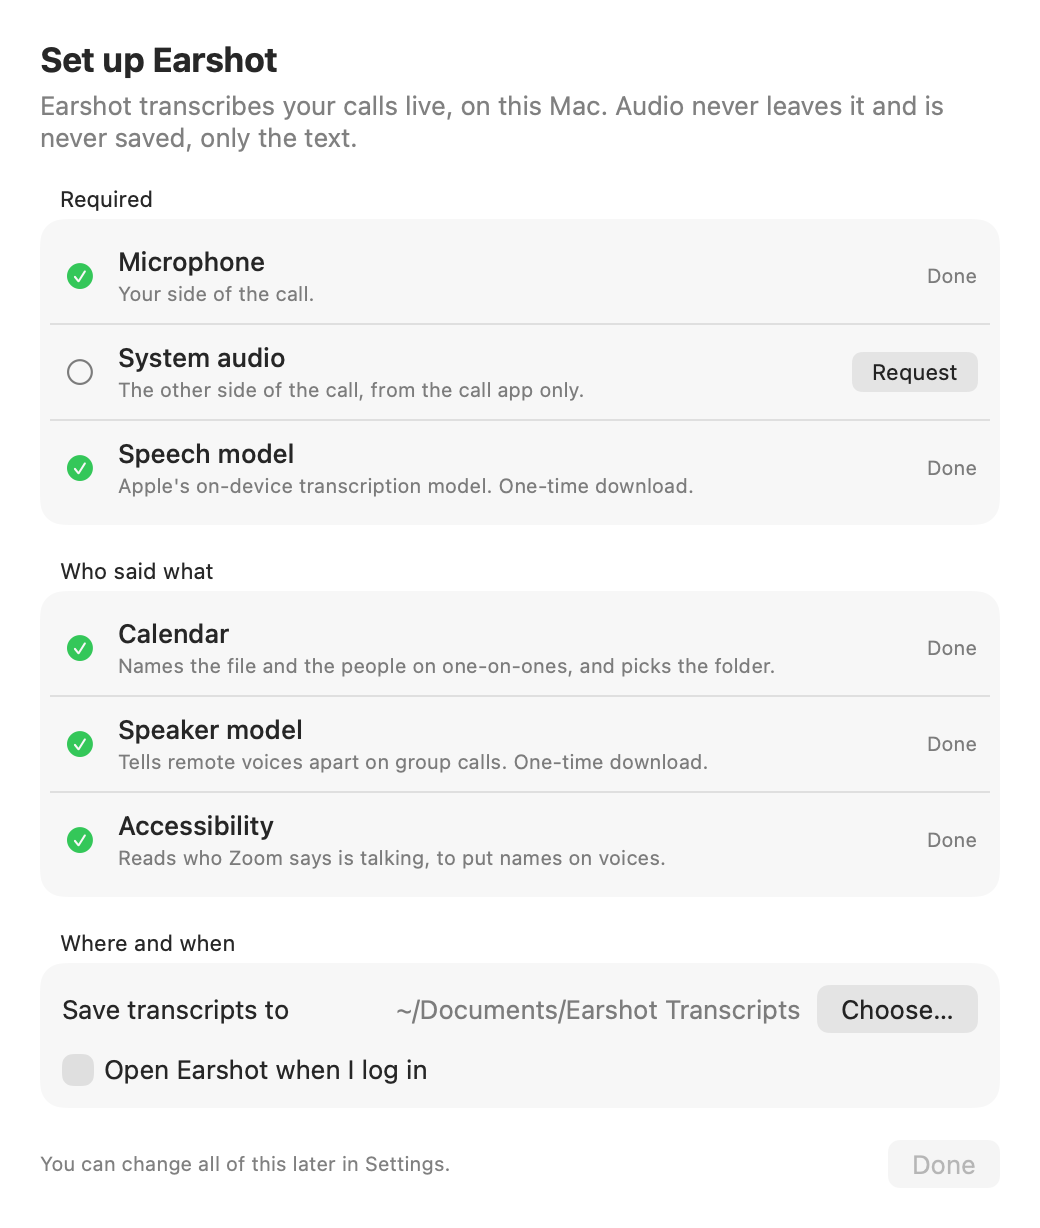
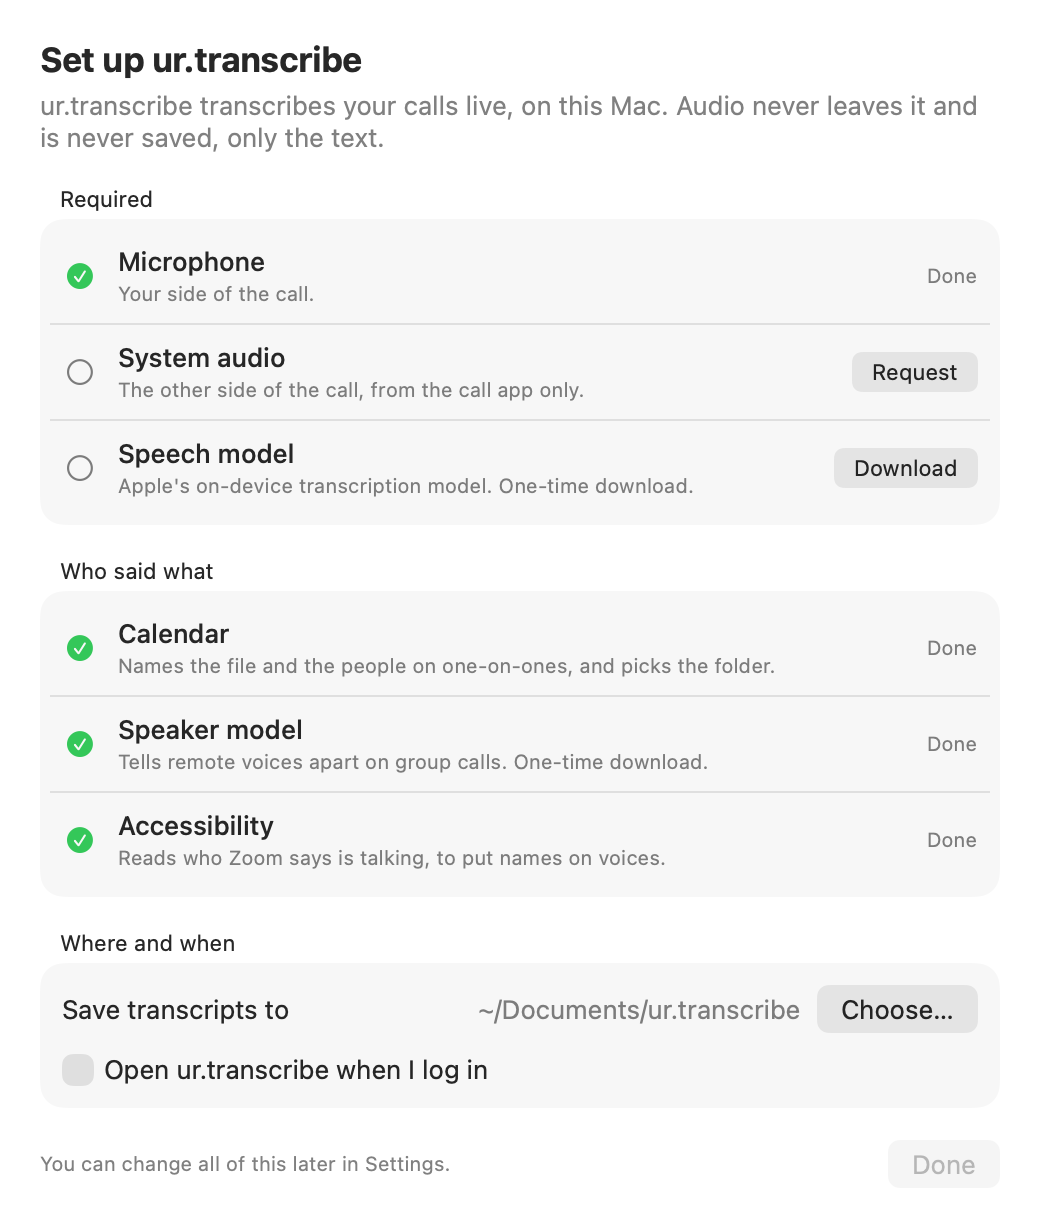
Rename to ur.transcribe
App is now ur.transcribe (bundle io.github.arturyb1.urtranscribe), with the
Swift package, module, and executable named URTranscribe.

diff --git a/Sources/URTranscribe/Audio/SystemAudioTap.swift b/Sources/URTranscribe/Audio/SystemAudioTap.swift
@@ -25,10 +25,10 @@ final class SystemAudioTap: @unchecked Sendable {
     private var tapID = AudioObjectID(kAudioObjectUnknown)
     private var aggregateID = AudioObjectID(kAudioObjectUnknown)
     private var procID: AudioDeviceIOProcID?
-    private let queue = DispatchQueue(label: "earshot.system-audio", qos: .userInitiated)
-    private let log = Logger(subsystem: "Earshot", category: "SystemAudioTap")
+    private let queue = DispatchQueue(label: "urtranscribe.system-audio", qos: .userInitiated)
+    private let log = Logger(subsystem: "ur.transcribe", category: "SystemAudioTap")
 
-    /// - Parameter bundlePrefixes: apps to capture. Empty captures everything except Earshot.
+    /// - Parameter bundlePrefixes: apps to capture. Empty captures everything except ur.transcribe.
     func start(bundlePrefixes: [String]) throws {
         let description: CATapDescription
         let processes = AudioProcess.all()
@@ -36,7 +36,7 @@ final class SystemAudioTap: @unchecked Sendable {
             bundlePrefixes.contains { process.bundleID.hasPrefix($0) }
         }
         if matches.isEmpty {
-            // No app given, or it has no audio process yet: take everything but Earshot.
+            // No app given, or it has no audio process yet: take everything but ur.transcribe.
             let own = AudioProcess.current().map { [$0.objectID] } ?? []
             description = CATapDescription(monoGlobalTapButExcludeProcesses: own)
         } else {
@@ -46,7 +46,7 @@ final class SystemAudioTap: @unchecked Sendable {
             description.isProcessRestoreEnabled = true
         }
         description.uuid = UUID()
-        description.name = "Earshot"
+        description.name = "ur.transcribe"
         description.isPrivate = true
         description.muteBehavior = .unmuted
 
@@ -56,7 +56,7 @@ final class SystemAudioTap: @unchecked Sendable {
         guard let outputUID = CoreAudio.defaultOutputDeviceUID() else { throw TapError.noOutputDevice }
         let tapUID = CoreAudio.string(tapID, kAudioTapPropertyUID) ?? description.uuid.uuidString
         let aggregate: [String: Any] = [
-            kAudioAggregateDeviceNameKey: "Earshot Tap",
+            kAudioAggregateDeviceNameKey: "ur.transcribe tap",
             kAudioAggregateDeviceUIDKey: UUID().uuidString,
             kAudioAggregateDeviceMainSubDeviceKey: outputUID,
             kAudioAggregateDeviceIsPrivateKey: true,

diff --git a/Sources/URTranscribe/UI/SetupView.swift b/Sources/URTranscribe/UI/SetupView.swift
@@ -8,8 +8,8 @@ struct SetupView: View {
     var body: some View {
         VStack(alignment: .leading, spacing: 16) {
             VStack(alignment: .leading, spacing: 4) {
-                Text("Set up Earshot").font(.title2.bold())
-                Text("Earshot transcribes your calls live, on this Mac. Audio never leaves it and is never saved, only the text.")
+                Text("Set up ur.transcribe").font(.title2.bold())
+                Text("ur.transcribe transcribes your calls live, on this Mac. Audio never leaves it and is never saved, only the text.")
                     .foregroundStyle(.secondary)
                     .fixedSize(horizontal: false, vertical: true)
             }
@@ -53,7 +53,7 @@ struct SetupView: View {
             GroupBox("Where and when") {
                 VStack(alignment: .leading, spacing: 10) {
                     FolderPicker(title: "Save transcripts to", path: $settings.destinationPath)
-                    Toggle("Open Earshot when I log in", isOn: Binding(
+                    Toggle("Open ur.transcribe when I log in", isOn: Binding(
                         get: { permissions.openAtLogin }, set: { permissions.setOpenAtLogin($0) }))
                 }
                 .padding(6)

diff --git a/Sources/URTranscribe/Transcription/StreamTranscriber.swift b/Sources/URTranscribe/Transcription/StreamTranscriber.swift
@@ -27,7 +27,7 @@ final class StreamTranscriber: @unchecked Sendable {
     private let inputStream: AsyncStream<AnalyzerInput>
     private var resultsTask: Task<Void, Never>?
     private var framesFed: Int64 = 0
-    private let log = Logger(subsystem: "Earshot", category: "StreamTranscriber")
+    private let log = Logger(subsystem: "ur.transcribe", category: "StreamTranscriber")
 
     static func makeModule(locale: Locale) -> SpeechTranscriber {
         SpeechTranscriber(
@@ -61,7 +61,7 @@ final class StreamTranscriber: @unchecked Sendable {
         transcriber = Self.makeModule(locale: locale)
         analyzer = SpeechAnalyzer(modules: [transcriber])
         guard let format = await SpeechAnalyzer.bestAvailableAudioFormat(compatibleWith: [transcriber]) else {
-            throw NSError(domain: "Earshot", code: 2, userInfo: [NSLocalizedDescriptionKey: "Speech model has no usable audio format."])
+            throw NSError(domain: "ur.transcribe", code: 2, userInfo: [NSLocalizedDescriptionKey: "Speech model has no usable audio format."])
         }
         converter = BufferConverter(outputFormat: format)
         (inputStream, input) = AsyncStream<AnalyzerInput>.makeStream(bufferingPolicy: .unbounded)

diff --git a/Sources/URTranscribe/UI/SettingsView.swift b/Sources/URTranscribe/UI/SettingsView.swift
@@ -26,7 +26,7 @@ private struct GeneralTab: View {
     var body: some View {
         Form {
             Section {
-                Toggle("Open Earshot when I log in", isOn: Binding(
+                Toggle("Open ur.transcribe when I log in", isOn: Binding(
                     get: { permissions.openAtLogin }, set: { permissions.setOpenAtLogin($0) }))
                 Toggle("Start transcribing when a call starts", isOn: Binding(
                     get: { settings.autoDetect }, set: { AppModel.shared.setAutoDetect($0) }))
@@ -163,7 +163,7 @@ private struct SpeakersTab: View {
     private func saveSnapshot() {
         let text = ZoomSpeakerWatcher.snapshot()
         let folder = FileManager.default.urls(for: .libraryDirectory, in: .userDomainMask)[0]
-            .appendingPathComponent("Logs/Earshot", isDirectory: true)
+            .appendingPathComponent("Logs/ur.transcribe", isDirectory: true)
         try? FileManager.default.createDirectory(at: folder, withIntermediateDirectories: true)
         let url = folder.appendingPathComponent("zoom-accessibility-\(Int(Date().timeIntervalSince1970)).txt")
         try? text.write(to: url, atomically: true, encoding: .utf8)

diff --git a/Sources/URTranscribe/App/RecordingSession.swift b/Sources/URTranscribe/App/RecordingSession.swift
@@ -30,7 +30,7 @@ final class RecordingSession {
     private var remoteStartedAt = Date()
     private var volatileMine = ""
     private var volatileTheirs = ""
-    private let log = Logger(subsystem: "Earshot", category: "RecordingSession")
+    private let log = Logger(subsystem: "ur.transcribe", category: "RecordingSession")
 
     init(app: CallApp?, settings: Settings, diarizerModels: SortformerModels?) {
         self.app = app
@@ -52,7 +52,7 @@ final class RecordingSession {
         writer = TranscriptWriter(folder: settings.folder(for: meeting), title: title, date: startedAt)
 
         guard let locale = await StreamTranscriber.resolveLocale(settings.localeIdentifier) else {
-            throw NSError(domain: "Earshot", code: 3, userInfo: [NSLocalizedDescriptionKey: "Your language is not supported by on-device transcription."])
+            throw NSError(domain: "ur.transcribe", code: 3, userInfo: [NSLocalizedDescriptionKey: "Your language is not supported by on-device transcription."])
         }
         let micT = try await StreamTranscriber(locale: locale)
         let remoteT = try await StreamTranscriber(locale: locale)

diff --git a/Sources/URTranscribe/Audio/MicCapture.swift b/Sources/URTranscribe/Audio/MicCapture.swift
@@ -14,7 +14,7 @@ final class MicCapture: @unchecked Sendable {
     private var observer: NSObjectProtocol?
     private let lock = NSLock()
     private var pendingResync: TimeInterval?
-    private let log = Logger(subsystem: "Earshot", category: "MicCapture")
+    private let log = Logger(subsystem: "ur.transcribe", category: "MicCapture")
 
     func start() throws {
         startedAt = Date()
@@ -37,7 +37,7 @@ final class MicCapture: @unchecked Sendable {
         let input = engine.inputNode
         let format = input.outputFormat(forBus: 0)
         guard format.sampleRate > 0, format.channelCount > 0 else {
-            throw NSError(domain: "Earshot", code: 1, userInfo: [NSLocalizedDescriptionKey: "No microphone is available."])
+            throw NSError(domain: "ur.transcribe", code: 1, userInfo: [NSLocalizedDescriptionKey: "No microphone is available."])
         }
         input.installTap(onBus: 0, bufferSize: 4096, format: format) { [weak self] buffer, _ in
             guard let self else { return }

diff --git a/Sources/URTranscribe/UI/WindowManager.swift b/Sources/URTranscribe/UI/WindowManager.swift
@@ -1,7 +1,7 @@
 import AppKit
 import SwiftUI
 
-/// Owns the setup and settings windows. Earshot has no Dock icon, so windows
+/// Owns the setup and settings windows. ur.transcribe has no Dock icon, so windows
 /// are managed by hand and the app is brought forward when one opens.
 @MainActor
 final class WindowManager {
@@ -12,7 +12,7 @@ final class WindowManager {
 
     func showSetup() {
         let model = AppModel.shared
-        show(&setupWindow, title: "Set up Earshot") {
+        show(&setupWindow, title: "Set up ur.transcribe") {
             SetupView(permissions: model.permissions, settings: model.settings)
         }
     }
@@ -23,7 +23,7 @@ final class WindowManager {
 
     func showSettings() {
         let model = AppModel.shared
-        show(&settingsWindow, title: "Earshot Settings") {
+        show(&settingsWindow, title: "ur.transcribe Settings") {
             SettingsView(settings: model.settings, permissions: model.permissions)
         }
     }

diff --git a/Package.swift b/Package.swift
@@ -2,22 +2,22 @@
 import PackageDescription
 
 let package = Package(
-    name: "Earshot",
+    name: "URTranscribe",
     platforms: [.macOS("26.0")],
     dependencies: [
         .package(url: "https://github.com/FluidInference/FluidAudio.git", from: "0.7.0"),
     ],
     targets: [
         .executableTarget(
-            name: "Earshot",
+            name: "URTranscribe",
             dependencies: [.product(name: "FluidAudio", package: "FluidAudio")],
-            path: "Sources/Earshot",
+            path: "Sources/URTranscribe",
             swiftSettings: [.swiftLanguageMode(.v5)]
         ),
         .testTarget(
-            name: "EarshotTests",
-            dependencies: ["Earshot"],
-            path: "Tests/EarshotTests",
+            name: "URTranscribeTests",
+            dependencies: ["URTranscribe"],
+            path: "Tests/URTranscribeTests",
             swiftSettings: [.swiftLanguageMode(.v5)]
         ),
     ]

diff --git a/Sources/URTranscribe/App/Settings.swift b/Sources/URTranscribe/App/Settings.swift
@@ -1,6 +1,6 @@
 import Foundation
 
-/// An app Earshot can detect a call in, matched by bundle ID prefix.
+/// An app ur.transcribe can detect a call in, matched by bundle ID prefix.
 struct CallApp: Identifiable, Hashable {
     let id: String
     let name: String
@@ -69,7 +69,7 @@ final class Settings: ObservableObject {
     private init() {
         let documents = FileManager.default.urls(for: .documentDirectory, in: .userDomainMask)[0]
         destinationPath = defaults.string(forKey: "destinationPath")
-            ?? documents.appendingPathComponent("Earshot Transcripts").path
+            ?? documents.appendingPathComponent("ur.transcribe").path
         rules = (defaults.data(forKey: "rules")).flatMap { try? JSONDecoder().decode([RoutingRule].self, from: $0) } ?? []
         myName = defaults.string(forKey: "myName") ?? NSFullUserName()
         autoDetect = defaults.object(forKey: "autoDetect") as? Bool ?? true

diff --git a/Sources/URTranscribe/App/Permissions.swift b/Sources/URTranscribe/App/Permissions.swift
@@ -6,7 +6,7 @@ import FluidAudio
 import Foundation
 import ServiceManagement
 
-/// Tracks every permission and download Earshot needs, and asks for them.
+/// Tracks every permission and download ur.transcribe needs, and asks for them.
 @MainActor
 final class Permissions: ObservableObject {
     enum Status: Equatable {
@@ -139,7 +139,7 @@ final class Permissions: ObservableObject {
         do {
             if enabled { try SMAppService.mainApp.register() } else { try SMAppService.mainApp.unregister() }
         } catch {
-            NSLog("Earshot: could not change login item: \(error.localizedDescription)")
+            NSLog("ur.transcribe: could not change login item: \(error.localizedDescription)")
         }
         openAtLogin = SMAppService.mainApp.status == .enabled
     }

diff --git a/Sources/URTranscribe/Speakers/LiveDiarizer.swift b/Sources/URTranscribe/Speakers/LiveDiarizer.swift
@@ -19,12 +19,12 @@ final class LiveDiarizer: @unchecked Sendable {
     private let converter = BufferConverter(
         outputFormat: AVAudioFormat(commonFormat: .pcmFormatFloat32, sampleRate: 16_000, channels: 1, interleaved: false)!
     )
-    private let queue = DispatchQueue(label: "earshot.diarizer", qos: .userInitiated)
+    private let queue = DispatchQueue(label: "urtranscribe.diarizer", qos: .userInitiated)
     private let lock = NSLock()
     private var turns: [Turn] = []
     private var pending: [Float] = []
     private var lastRefresh = Date.distantPast
-    private let log = Logger(subsystem: "Earshot", category: "LiveDiarizer")
+    private let log = Logger(subsystem: "ur.transcribe", category: "LiveDiarizer")
 
     static let config = SortformerConfig.default
 

diff --git a/Sources/URTranscribe/Speakers/ZoomSpeakerWatcher.swift b/Sources/URTranscribe/Speakers/ZoomSpeakerWatcher.swift
@@ -25,10 +25,10 @@ final class ZoomSpeakerWatcher: @unchecked Sendable {
     private let excludedNames: Set<String>
     private let clock: () -> Double
     private var timer: DispatchSourceTimer?
-    private let queue = DispatchQueue(label: "earshot.zoom-ax", qos: .utility)
+    private let queue = DispatchQueue(label: "urtranscribe.zoom-ax", qos: .utility)
     private let lock = NSLock()
     private var observations: [(time: Double, name: String)] = []
-    private let log = Logger(subsystem: "Earshot", category: "ZoomSpeakerWatcher")
+    private let log = Logger(subsystem: "ur.transcribe", category: "ZoomSpeakerWatcher")
 
     static var isTrusted: Bool { AXIsProcessTrusted() }
 
